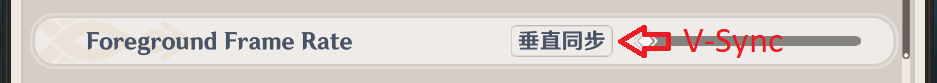
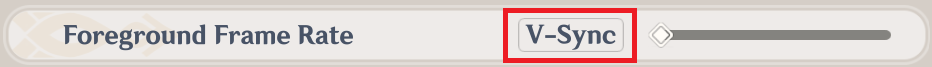
chore: updates

Changed region(s): [[0.0, 0.0, 1.0, 1.0], [0.0622, 0.3582, 0.4045, 0.7463]]

diff --git a/.vitepress/theme/components/MediaIntroduction.vue b/.vitepress/theme/components/MediaIntroduction.vue
@@ -3,7 +3,14 @@ import { computed } from 'vue'
 import { withBase } from 'vitepress'
 
 const props = defineProps<{
-  media: 'bilibili' | 'txc' | 'youtube' | 'twitter' | 'discord' | 'self'
+  media:
+    | 'bilibili'
+    | 'txc'
+    | 'youtube'
+    | 'twitter'
+    | 'discord'
+    | 'self'
+    | 'reddit'
   text: String
   link: URL
 }>()
@@ -33,6 +40,7 @@ const mediaID = computed(() => {
       <label i-logos-youtube-icon v-if="media === 'youtube'"></label>
       <label i-logos-twitter v-if="media === 'twitter'"></label>
       <label i-logos-discord-icon v-if="media === 'discord'"></label>
+      <label i-logos-reddit-icon v-if="media === 'reddit'"></label>
       <img h-10 w-10 v-if="media === 'self'" src="/imgs/logo_128.png" />
     </span>
     <span class="description">

diff --git a/src/en/manual/guide/auto-tracking/troubleshoot.md b/src/en/manual/guide/auto-tracking/troubleshoot.md
@@ -16,9 +16,12 @@ next:
 
 The auto tracking feature cannot overlay the game window, you can use the Stay on Top feature to have a similar effect as the title describes.
 
-Showcase:
-
-- [The Best Underground Map (Kongying Tavern x Teyvat Map Institute)](https://www.reddit.com/r/Genshin_Impact/comments/12znlyd/the_best_underground_map_kongying_tavern_x_teyvat/)
+Showcase
+<MediaIntroduction 
+  media="reddit"
+  text="The Best Underground Map (Kongying Tavern x Teyvat Map Institute)"
+  link="https://www.reddit.com/r/Genshin_Impact/comments/12znlyd/the_best_underground_map_kongying_tavern_x_teyvat/"
+/>
 
 ## 2. Cannot download auto tracking module, the download window flashes or the download speed is 0.00 kb/s
 
@@ -38,13 +41,12 @@ There is a problem with our server, join our [Discord](https://discord.gg/S7Mxgj
 - When using a new version for the first time, the module requires 1-5 minutes to rebuild its cache. During this process, switching versions or using the tracking screenshot function may cause the client to stop responding. If no player indicator shows up after 10 minutes, or if it is not the initial activation of a new version, please refer to issues further down the list.
 - Double-check if the auto tracker is toggled on.
 - Check the in-game minimap for obstructions, and ensure it's displaying properly.
-- Check the "DLL" version at the lower left corner of the map client. If it shows "Uninitialized", try restarting auto tracking. If the problem persists, please delete all files in `C:\Users\username\AppData\LocalLow\空荧酒馆\Map\DLL`, and download the tracking module again.
-
-![](/imgs/en/manual/auto-tracking/3.png)
-
-![](/imgs/en/manual/auto-tracking/4.png)
-
-![](/imgs/en/manual/auto-tracking/5.png)
+- Check the "DLL" version at the lower left corner of the map client. If it shows "Uninitialized", try restarting auto tracking.
+  ![](/imgs/en/manual/auto-tracking/3.png)
+  ![](/imgs/en/manual/auto-tracking/4.png)
+  ![](/imgs/en/manual/auto-tracking/5.png)
+  If the problem persists, please delete all files in `C:\Users\username\AppData\LocalLow\空荧酒馆\Map\DLL`, and download the tracking module again.
+  ![](/imgs/en/manual/auto-tracking/1.png)
 
 - Use "Obtain Tracking Screenshot" in the auto tracking settings, if the screenshot is blank, showing a non-current image of the game, or failed, please see Issue 5.
 - If a normal screenshot is obtained, but no player indicator shows up, please see Issue 6.
@@ -73,11 +75,9 @@ There is a problem with our server, join our [Discord](https://discord.gg/S7Mxgj
 
 ## 7. Drifting player indicator
 
-When the player indicator is at the wrong location, but moves with your in-game movement, delete the auto tracking cache and restart auto tracking to rebuild it.
+When the player indicator is at the wrong location, but moves with your in-game movement, clear the auto tracking cache from the settings and restart auto tracking to rebuild it. (see **_Issue 3._**)
 
-![](/imgs/en/manual/auto-tracking/6.png)
-
-## 8. Player indicator teleports or updates location slowly
+## 8. Player indicator teleports or updates player movement slowly
 
 Occasional teleportation skips of the player indicator cannot be avoided due to the nature of our image recognition algorithm, but you can reduce its occurrence and improve responsiveness with the following actions:
 

diff --git a/src/en/manual/guide/canvas/guide.md b/src/en/manual/guide/canvas/guide.md
@@ -25,33 +25,33 @@ Hotkey summary:
 
 ## Basic Functionality
 
-**step** 1. Click on the map icon located in the upper right
+### **step** 1. Click on the map icon located in the upper right
 
 ![](/imgs/en/manual/canvas/1.png)
 
-**step** 2. Select "Add a New Canvas"
+### **step** 2. Select "Add a New Canvas"
 
 ![](/imgs/en/manual/canvas/2.png)
 
-**step** 3. Select the newly created canvas (indicated by darkened background)
+### **step** 3. Select the newly created canvas (indicated by darkened background)
 
 ![](/imgs/en/manual/canvas/3.png)
 
 ![](/imgs/en/manual/canvas/4.png)
 (Canvas under selection, click on it again to deselect)
 
-**step** 4. Toggle editing
+### **step** 4. Toggle editing
 
 ![](/imgs/en/manual/canvas/5.png)
 
 ![](/imgs/en/manual/canvas/6.png)
 (Picture shows editing toggled ON, click on it again to toggle OFF)
 
-**step** 5. **Hold Alt and left click** on any location to create a path
+### **step** 5. **Hold Alt and left click** on any location to create a path
 
 ![](/imgs/en/manual/canvas/7.png)
 
-**step** 6. Holding control allows control over anchors on the path
+### **step** 6. Holding control allows control over anchors on the path
 
 ![](/imgs/en/manual/canvas/9.png)
 
@@ -60,13 +60,13 @@ use **right click** on round anchors to reset path curvature,
 use **right click** on square anchors to delete it,  
 **double click** on the path to place an anchor.
 
-**step** 7. Hit **Enter** to conclude editing this path
+### **step** 7. Hit **Enter** to conclude editing this path
 
-**step** 8. Repeat **steps** 1 through 7 (note: upon exiting editing via Enter, click on a path to begin editing it)
+### **step** 8. Repeat **steps** 1 through 7 (note: upon exiting editing via Enter, click on a path to begin editing it)
 
 ## Export
 
-Open the Canvas list, select "Export" and save to a desirable location.
+Open the Canvas list, select "Export" and save to a desirable directory.
 
 ![](/imgs/en/manual/canvas/10.png)
 

diff --git a/src/en/manual/guide/bg/bgfrate.md b/src/en/manual/guide/bg/bgfrate.md
@@ -20,18 +20,19 @@ If you wish to use the [Stay on Top] feature, which pins the map client window o
 
 ![](/imgs/en/manual/bg-frate/1.png)
 
+::: tip
+
 Dragging the frame rate slider to the leftmost position will enable \[V-Sync], which matches the frame rate limit to your monitor's refresh rate.
 
 ![](/imgs/en/manual/bg-frate/2.png)
 
----
+:::
 
 ## Tracking Interval
 
 [Tracking Interval] can be found under [Automatic Tracking] settings, the unit of its value is **second**.
 
-Reducing [Tracking Interval] will increase CPU usage (minimum 0.1 sec);
-
-Increasing [Tracking Interval] will reduce CPU usage (maximum 1.0 sec), while also reducing player indicator responsiveness.
+- Reducing [Tracking Interval] will increase CPU usage (minimum 0.1 sec);
+- Increasing [Tracking Interval] will reduce CPU usage (maximum 1.0 sec), while also reducing player indicator responsiveness.
 
 ![](/imgs/en/manual/bg-frate/3.png)

diff --git a/src/en/manual/guide/overlay-mode/instructions.md b/src/en/manual/guide/overlay-mode/instructions.md
@@ -35,7 +35,7 @@ Overlay Mode <span style="color: green"><b>displays the map client</b></span> ov
 (Close Button - Go Back to Game)
 
 - Once Overlay Mode is enabled successfully, a **Paimon Icon** displays on the left of the minimap in-game
-- If the Paimon Icon does not appear, **PopTips** likely loaded unsuccessfully. This may be caused by system permission denial, you can launch the **PopTips** plugin manually by executing **_map folder location_\Map_Data\Plugins\x86_64\tips.exe**
+- If the Paimon Icon does not appear, **PopTips** likely loaded unsuccessfully. This may be caused by system permission denial, you can launch the **PopTips** plugin manually by executing `map_folder_directory_\Map_Data\Plugins\x86_64\tips.exe`
 
 ![](/imgs/en/manual/overlay-mode/4.png)
 (Paimon Icon)

diff --git a/src/en/download-client.md b/src/en/download-client.md
@@ -18,27 +18,22 @@ titleTemplate: Kongying Tavern
 - Baidu Cloud (Chinese)：
   - <https://pan.baidu.com/s/1mrU_bkqcpcdjeKPUCzMNDQ?pwd=kyjg>
 
-> [Client User Manual](./manual/client-user-manual.md)
-
 ::: tip
 Currently we only offer the **Windows Version** of our map client, versions in other OS are in progress.
 
 If you are interested in aiding our development, consider [Join Us(^\_^)](./join)
 :::
 
-:::details Client use tutorial
-
 <MediaIntroduction
   media="self"
   text="Map Client User Manual"
   link="./manual/client-user-manual.md"
 />
-:::
 
 ## Web Version
 
 <MediaIntroduction 
   media="self"
-  text="Web-version portal"
+  text="Web Version Portal"
   link="https://yuanshen.site"
 />

diff --git a/src/en/manual/guide/auto-tracking/importantnotes.md b/src/en/manual/guide/auto-tracking/importantnotes.md
@@ -98,10 +98,12 @@ Some facts to know before troubleshooting and submitting feedback:
    - Tracking log (autoTrack.log)
    - Tracking screenshot (Capture.png)
 
-![](/imgs/en/manual/auto-tracking/1.png)
+![](/imgs/en/manual/auto-tracking/7.png)
 
-Tip: You can visit the files' location quickly through the auto tracking settings
+::: tip
+You can visit the files' directory quickly through the auto tracking settings.
 
 ![](/imgs/en/manual/auto-tracking/2.png)
+:::
 
 1. Please go through the following [potential Issues](./troubleshoot.md) before posting in the #feedback channel on Discord. (you are welcomed ask any question in #chat)

diff --git a/src/en/manual/faq/accountsafety/acntban.md b/src/en/manual/faq/accountsafety/acntban.md
@@ -11,16 +11,16 @@ _Kongying Tavern Genshin Interactive Map_ is a MulanPSL-1.0 open-source project,
 
 <MediaIntroduction 
   media="self"
-  text="Web-version portal"
+  text="Web Version Portal"
   link="https://yuanshen.site"
 />
 
 <MediaIntroduction 
   media="self"
-  text="Map client official download"
+  text="Map Client Official Download"
   link="../../../download-client"
 />
 
 ---
 
-### **Thank you for your trust and continuous support!**
+ <div style="text-align: center;"><h3>Thank you for your trust and continuous support!</h3></div>

diff --git a/src/en/manual/faq/autoupdate/updater.md b/src/en/manual/faq/autoupdate/updater.md
@@ -10,6 +10,6 @@ Between version updates, some setups will encounter a bug preventing the auto-up
 > If there is no auto-updater, or if the updater is not sufficiently recent, please visit the link below to download the latest updater:
 > https://download.yuanshen.site/d_0/YuanshendtUpdater.exe
 
-Updater Location:
+Updater directory:
 
 ![](/imgs/en/manual/autoupdate/updaterlocation.png)

diff --git a/src/en/manual/faq/launcherror/emptydialog.md b/src/en/manual/faq/launcherror/emptydialog.md
@@ -15,7 +15,7 @@ There are three likely scenarios,
 2. the client is stuck on 0%, no dialogue appears
 
 ![](/imgs/en/manual/launcherror/2.jpeg)
-(Cache is corrupted, head to the location in the following picture and delete PlayerPrefs.json)
+(Cache is corrupted, head to the directory in the following picture and delete PlayerPrefs.json)
 
 ![](/imgs/en/manual/launcherror/3.png)
 

diff --git a/src/en/manual/guide/restore-recover/progress.md b/src/en/manual/guide/restore-recover/progress.md
@@ -9,9 +9,9 @@ prev:
 
 # [Restore/Recover] Progress Recovery From Stored Data
 
-This feature requires a Gitee account that is logged in on your map client
+This feature requires a logged in Gitee account on your map client.
 
-## 1. Return save to an archived timestamp
+## 1. Return saves to an archived timestamp
 
 Select **Restore** in the **Paimon Menu**
 
